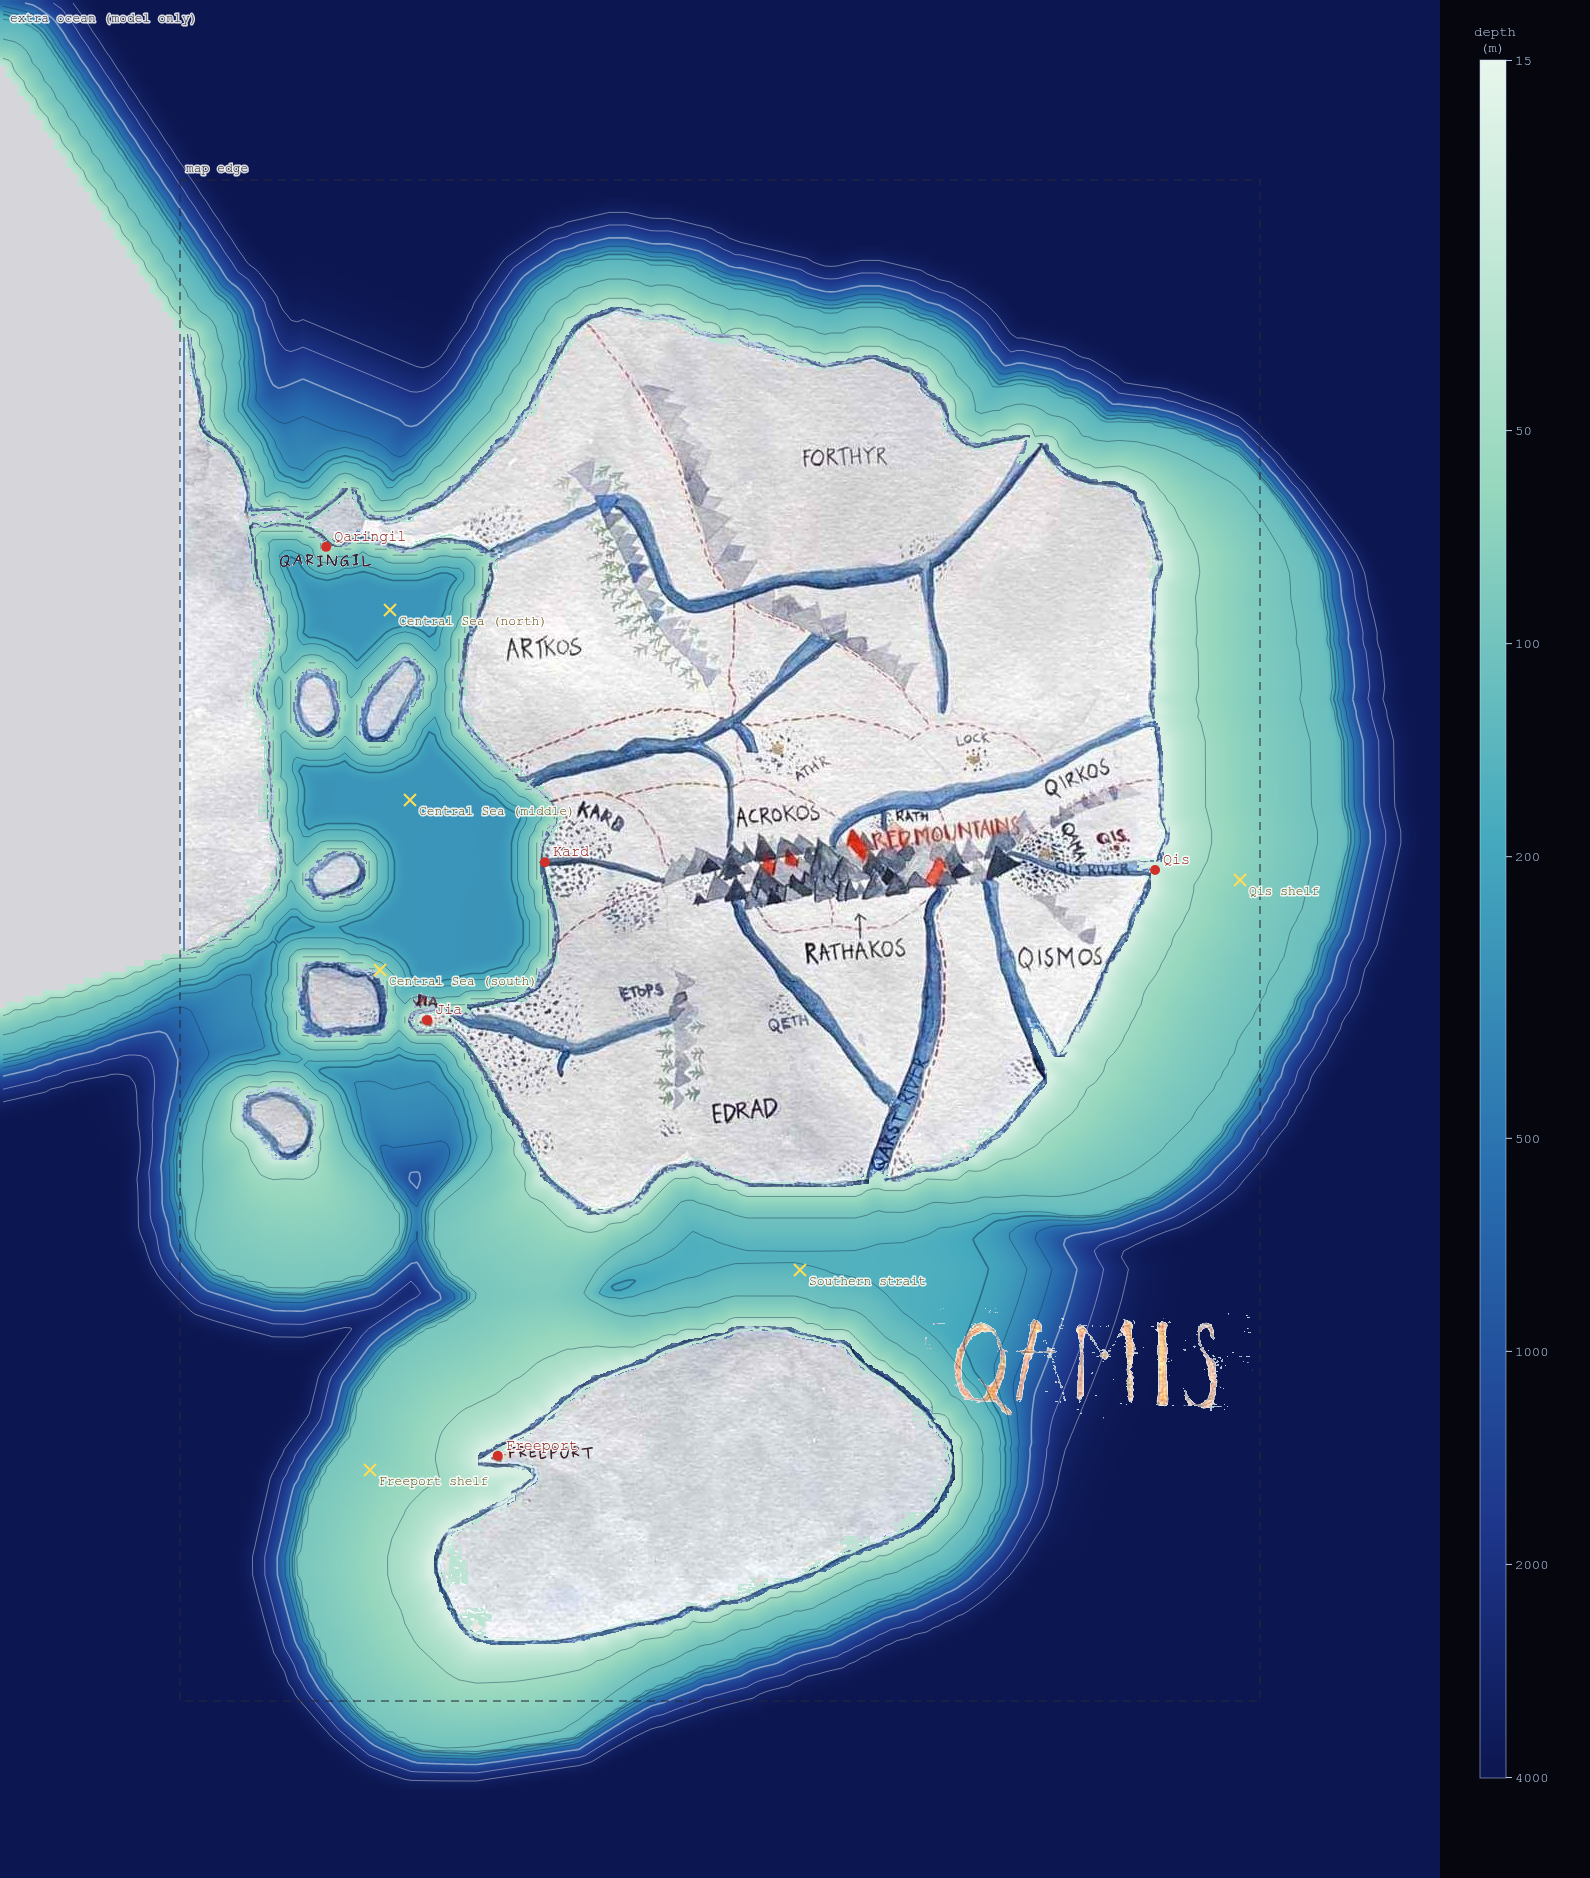
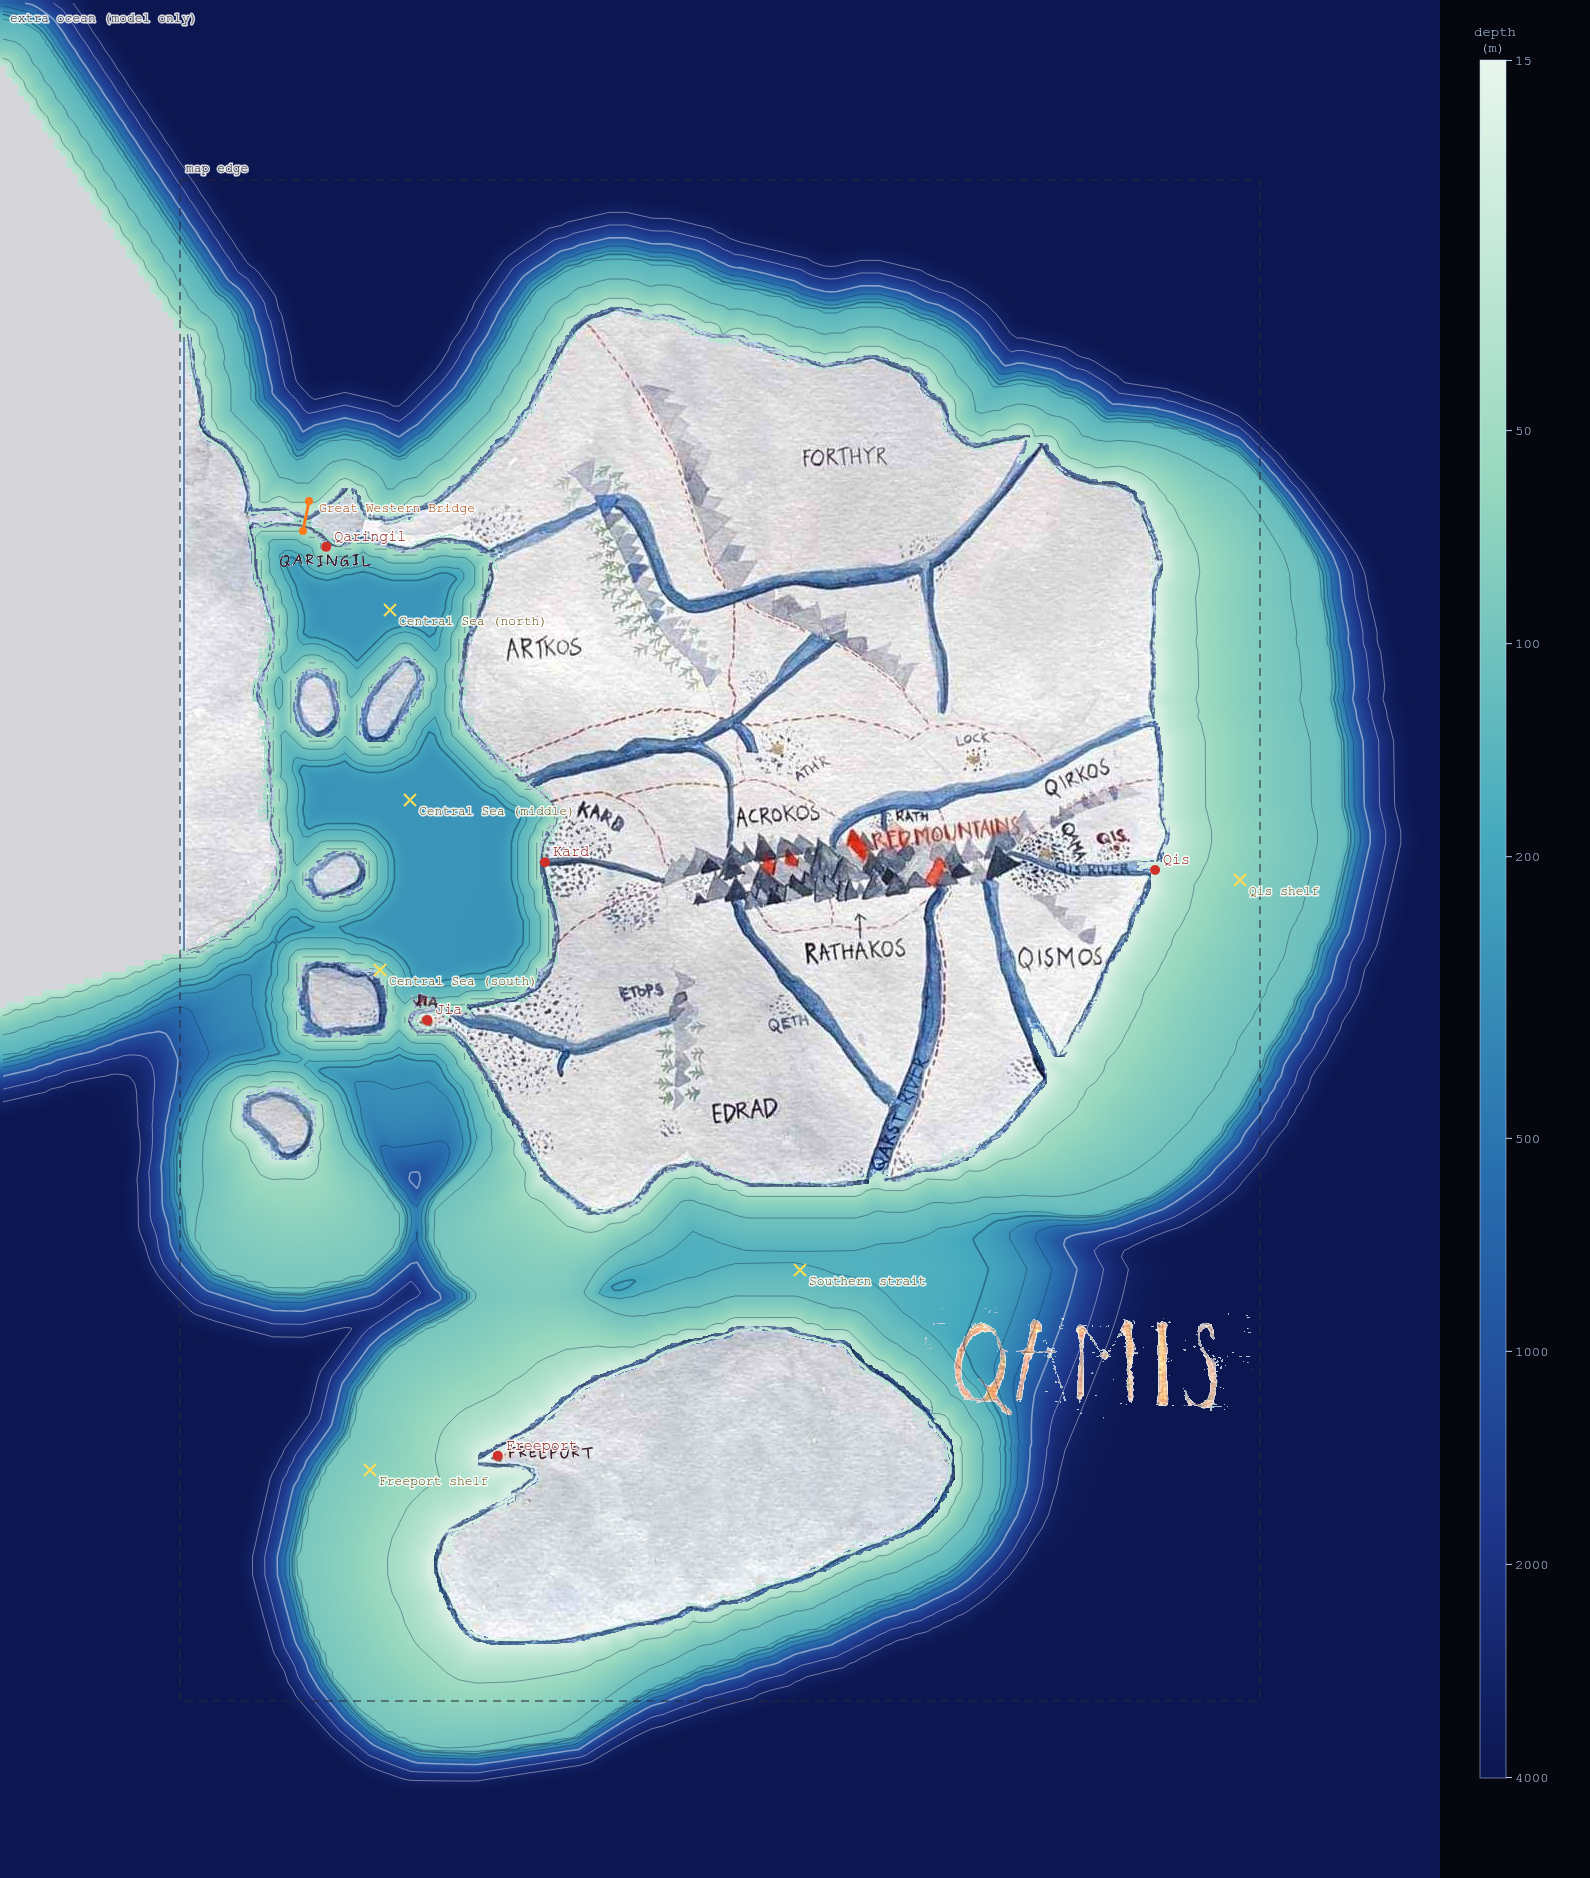
Close the isthmus in the tide mask and add a Golden-Gate-sized gap
At 6 px cells the thin western causeway broke up into a one-cell (10 km)
channel.  sea_mask.py now draws the isthmus in as a wall that no cell-face
path crosses (and checks it), and drops sea pockets cut off from the open sea.

ocean_grid.js gains OCEAN.gaps: one sub-grid strait under the Great Western
Bridge, where the map shows water between the causeway and the volcanic
island, sized like the Golden Gate (1.6 km × 60 m × 5 km, loss 1.0).  The
grid snaps its ends to the nearest sea cells; the bathymetry plot draws it.

Changed region(s): [[0.1233, 0.1544, 0.3082, 0.278], [0.2774, 0.8339, 0.3082, 0.8647]]

diff --git a/ocean_grid.js b/ocean_grid.js
@@ -37,6 +37,19 @@ export const OCEAN = {
   // meets it: slope = cells of latitude gained per cell west (positive =
   // the land widens westward).  Steep in the north, shallow in the south.
   westLand: { northSlope: 1.5, southSlope: 0.3 },
+  // Sub-grid straits through land walls.  The isthmus is a closed wall in the
+  // mask except for one gap, under the Great Western Bridge where the map
+  // shows water between the causeway and the volcanic island (px ~127, 338),
+  // sized like the Golden Gate
+  // (≈1.6 km wide, ≈60 m mean depth (113 m max), ≈5 km long).  The solver
+  // treats each gap as a 1-D channel joining the sea cells nearest its two
+  // ends:  du/dt = g·Δη/length − (Cd/depth + loss/(2·length))·|u|·u,
+  // with flux u·width·depth taken from one side and added to the other.
+  // loss = entry + exit head-loss coefficient.
+  gaps: [
+    { name: 'Great Western Bridge', ends: [[127, 320], [127, 352]],
+      width: 1600, depth: 60, length: 5000, loss: 1.0 },
+  ],
   defaults: { shelfDepth: 140, shelfWidth: 80, slopeWidth: 120, deep: 4000 },   // m, km
   regions: [
     // The Central Sea: a flooded continental basin ~230 m deep with narrow
@@ -61,6 +74,7 @@ const PARAMS = ['shelfDepth', 'shelfWidth', 'slopeWidth', 'deep'];
 // Build the model grid.  Returns
 //   { nx, ny, dx, pad, cellPx, sea (Uint8Array), depth (Float32Array, m; 0 on land),
 //     coastKm (Float32Array), lat, lon (Float32Array, degrees),
+//     gaps ([{ ...cfg.gaps[n], cells: [k0, k1], area }]),
 //     mapCell(px, py) → cell index, cellCentrePx(i, j) → [px, py] }
 // Cell (i, j) is column i, row j; index j·nx + i.
 export function buildOceanGrid(mask, cfg = OCEAN) {
@@ -160,7 +174,28 @@ export function buildOceanGrid(mask, cfg = OCEAN) {
     depth[k] = Math.max(h0, Math.min(h, Math.max(deep, h0)));
   }
 
-  return { nx, ny, dx: dxKm * 1000, pad, cellPx, sea, depth, coastKm, lat, lon, mapCell, cellCentrePx };
+  // Gaps: snap each end to the nearest sea cell.
+  const nearestSea = (px, py) => {
+    const k0 = mapCell(px, py), i0 = k0 % nx, j0 = (k0 - i0) / nx;
+    for (let r = 0; r < 5; r++) {
+      let best = -1, bd = Infinity;
+      for (let j = j0 - r; j <= j0 + r; j++) for (let i = i0 - r; i <= i0 + r; i++) {
+        const k = j * nx + i;
+        if (!sea[k]) continue;
+        const d = (i - i0) ** 2 + (j - j0) ** 2;
+        if (d < bd) { bd = d; best = k; }
+      }
+      if (best >= 0) return best;
+    }
+    throw new Error(`ocean gap: no sea within 5 cells of (${px}, ${py})`);
+  };
+  const gaps = (cfg.gaps ?? []).map(gp => {
+    const cells = gp.ends.map(([px, py]) => nearestSea(px, py));
+    if (cells[0] === cells[1]) throw new Error(`ocean gap ${gp.name}: both ends in the same cell`);
+    return { ...gp, cells, area: gp.width * gp.depth };
+  });
+
+  return { nx, ny, dx: dxKm * 1000, pad, cellPx, sea, depth, coastKm, lat, lon, gaps, mapCell, cellCentrePx };
 }
 
 // 5×5 chamfer distance (in cells) from cells where isSource(k).

diff --git a/docket/tools/sea_mask.py b/docket/tools/sea_mask.py
@@ -7,6 +7,7 @@ sea), then:
   - lettering in the water is forced to sea, and land specks of 1-2 cells (labels,
     city dots) become sea;
   - edge cells continue the land just inside them (see below);
+  - the isthmus is drawn in as an unbroken wall;
   - sea not connected to the map edge (none at present) becomes land.
 
     uv run --no-project --with scipy --with numpy --with pillow \
@@ -56,8 +57,46 @@ for _ in range(2):
     sea[:, 0] &= sea[:, 1]; sea[:, -1] &= sea[:, -2]
     sea[0, :] &= sea[1, :]; sea[-1, :] &= sea[-2, :]
 
-# Sea must connect to the map edge (8-connected).
-lab, n = ndi.label(sea, structure=np.ones((3, 3), bool))
+# The isthmus is drawn as a wall: at 6 px cells its thin western causeway
+# otherwise breaks up into a one-cell (10 km) channel.  Flow through it is
+# modelled separately as a sub-grid strait (ocean_grid.js GAPS).  The polyline
+# runs along the causeway, the volcanic island and the eastern bridge, and is
+# rasterised with 4-connected steps so no cell-face path crosses it.
+ISTHMUS = [(40, 338), (100, 338), (130, 334), (160, 333), (190, 343), (250, 350), (310, 362)]
+
+def wall(points):
+    cells = []
+    for (xa, ya), (xb, yb) in zip(points, points[1:]):
+        i, j = xa // CELL, ya // CELL
+        ib, jb = xb // CELL, yb // CELL
+        cells.append((i, j))
+        while (i, j) != (ib, jb):
+            # step along whichever axis keeps us closest to the segment
+            di, dj = (ib > i) - (ib < i), (jb > j) - (jb < j)
+            if di and dj:
+                ex = abs((jb - (ya // CELL)) * (i + di - xa // CELL) - (ib - xa // CELL) * (j - ya // CELL))
+                ey = abs((jb - (ya // CELL)) * (i - xa // CELL) - (ib - xa // CELL) * (j + dj - ya // CELL))
+                if ex <= ey: i += di
+                else: j += dj
+            elif di: i += di
+            else: j += dj
+            cells.append((i, j))
+    return cells
+
+for i, j in wall(ISTHMUS):
+    sea[j, i] = False
+
+# Check: within a box around the isthmus, water north and south of it must
+# not touch through cell faces.
+x0, y0, x1, y1 = 40 // CELL, 280 // CELL, 330 // CELL, 400 // CELL
+box = sea[y0:y1, x0:x1]
+lab, _ = ndi.label(box)
+n_id, s_id = lab[300 // CELL - y0, 100 // CELL - x0], lab[372 // CELL - y0, 100 // CELL - x0]
+assert n_id and s_id and n_id != s_id, 'isthmus leaks'
+
+# Sea must connect to the map edge through cell faces (as flow does in the
+# model), so pockets cut off by the wall become land.
+lab, n = ndi.label(sea)
 edge = set(np.unique(np.concatenate([lab[0], lab[-1], lab[:, 0], lab[:, -1]]))) - {0}
 sea = np.isin(lab, list(edge))
 
